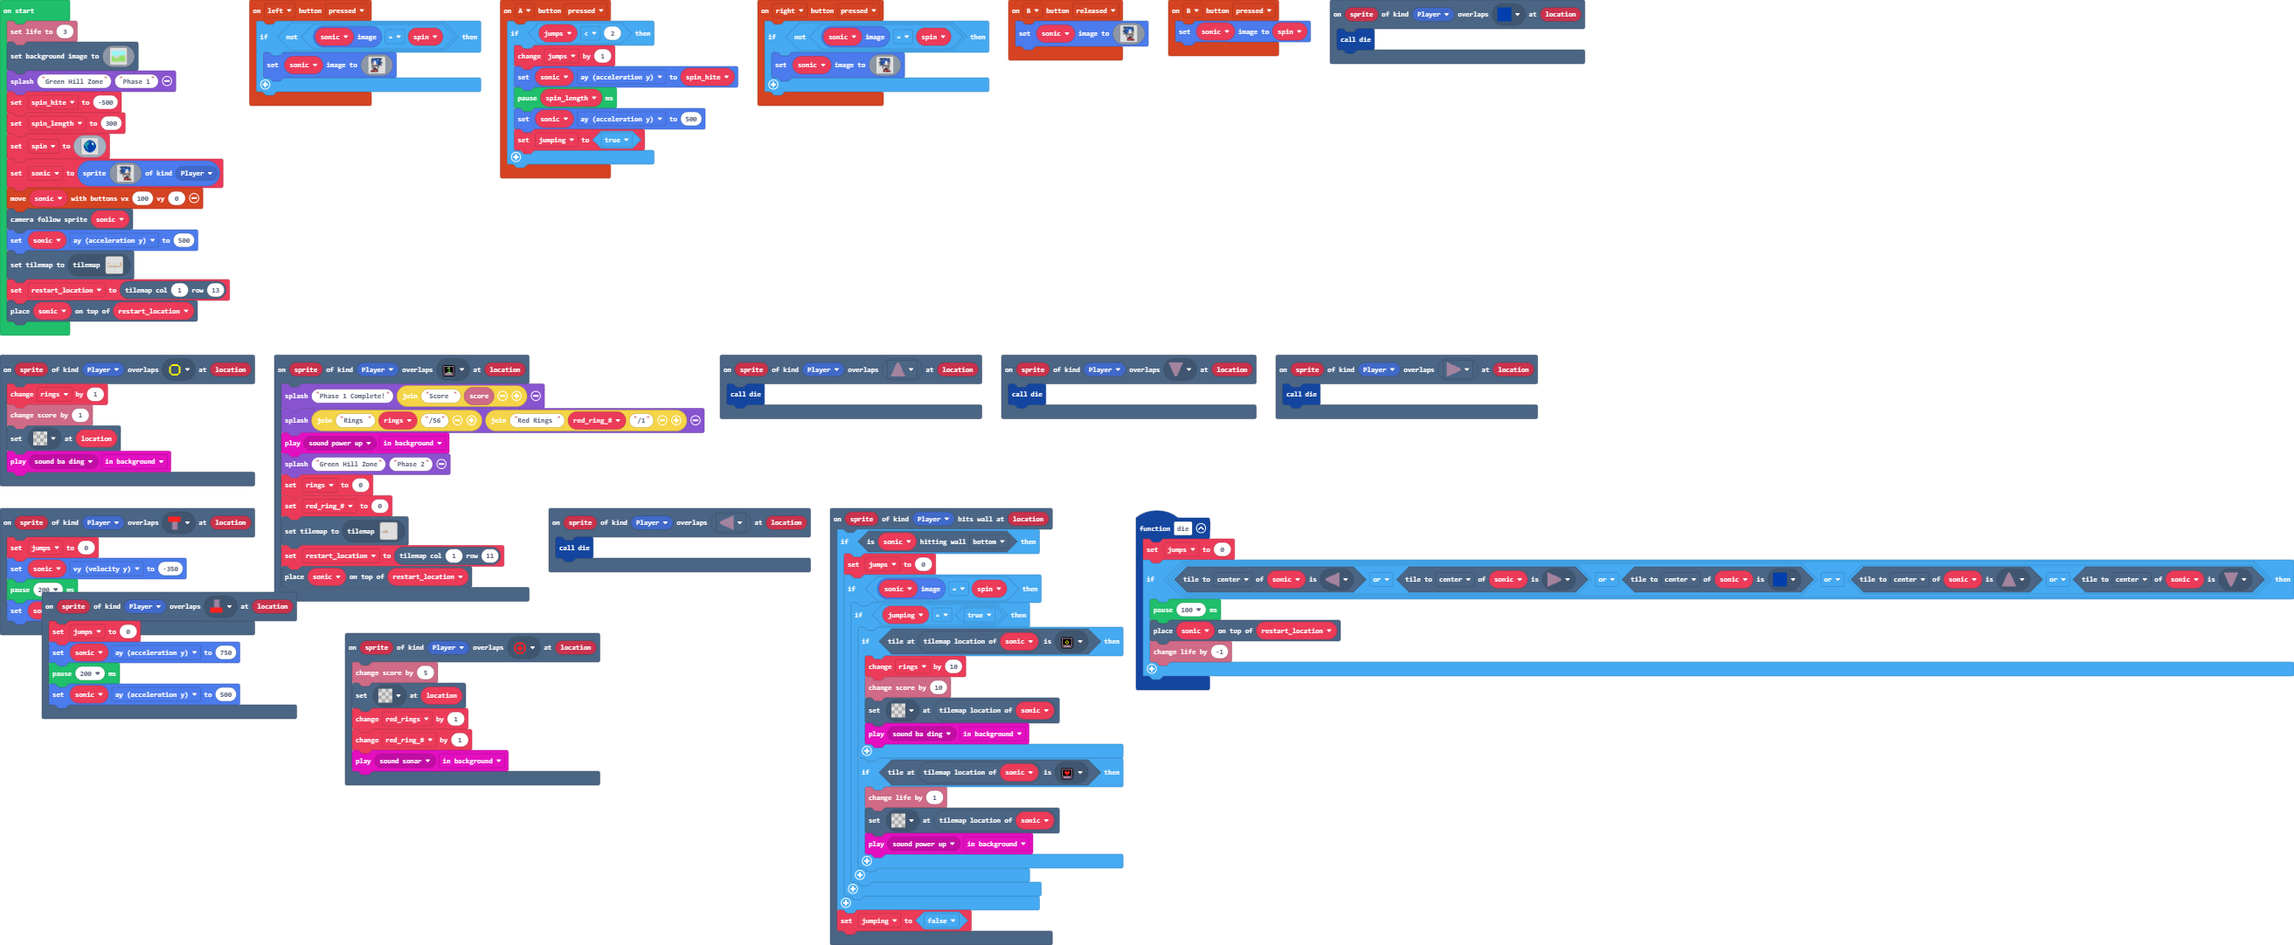
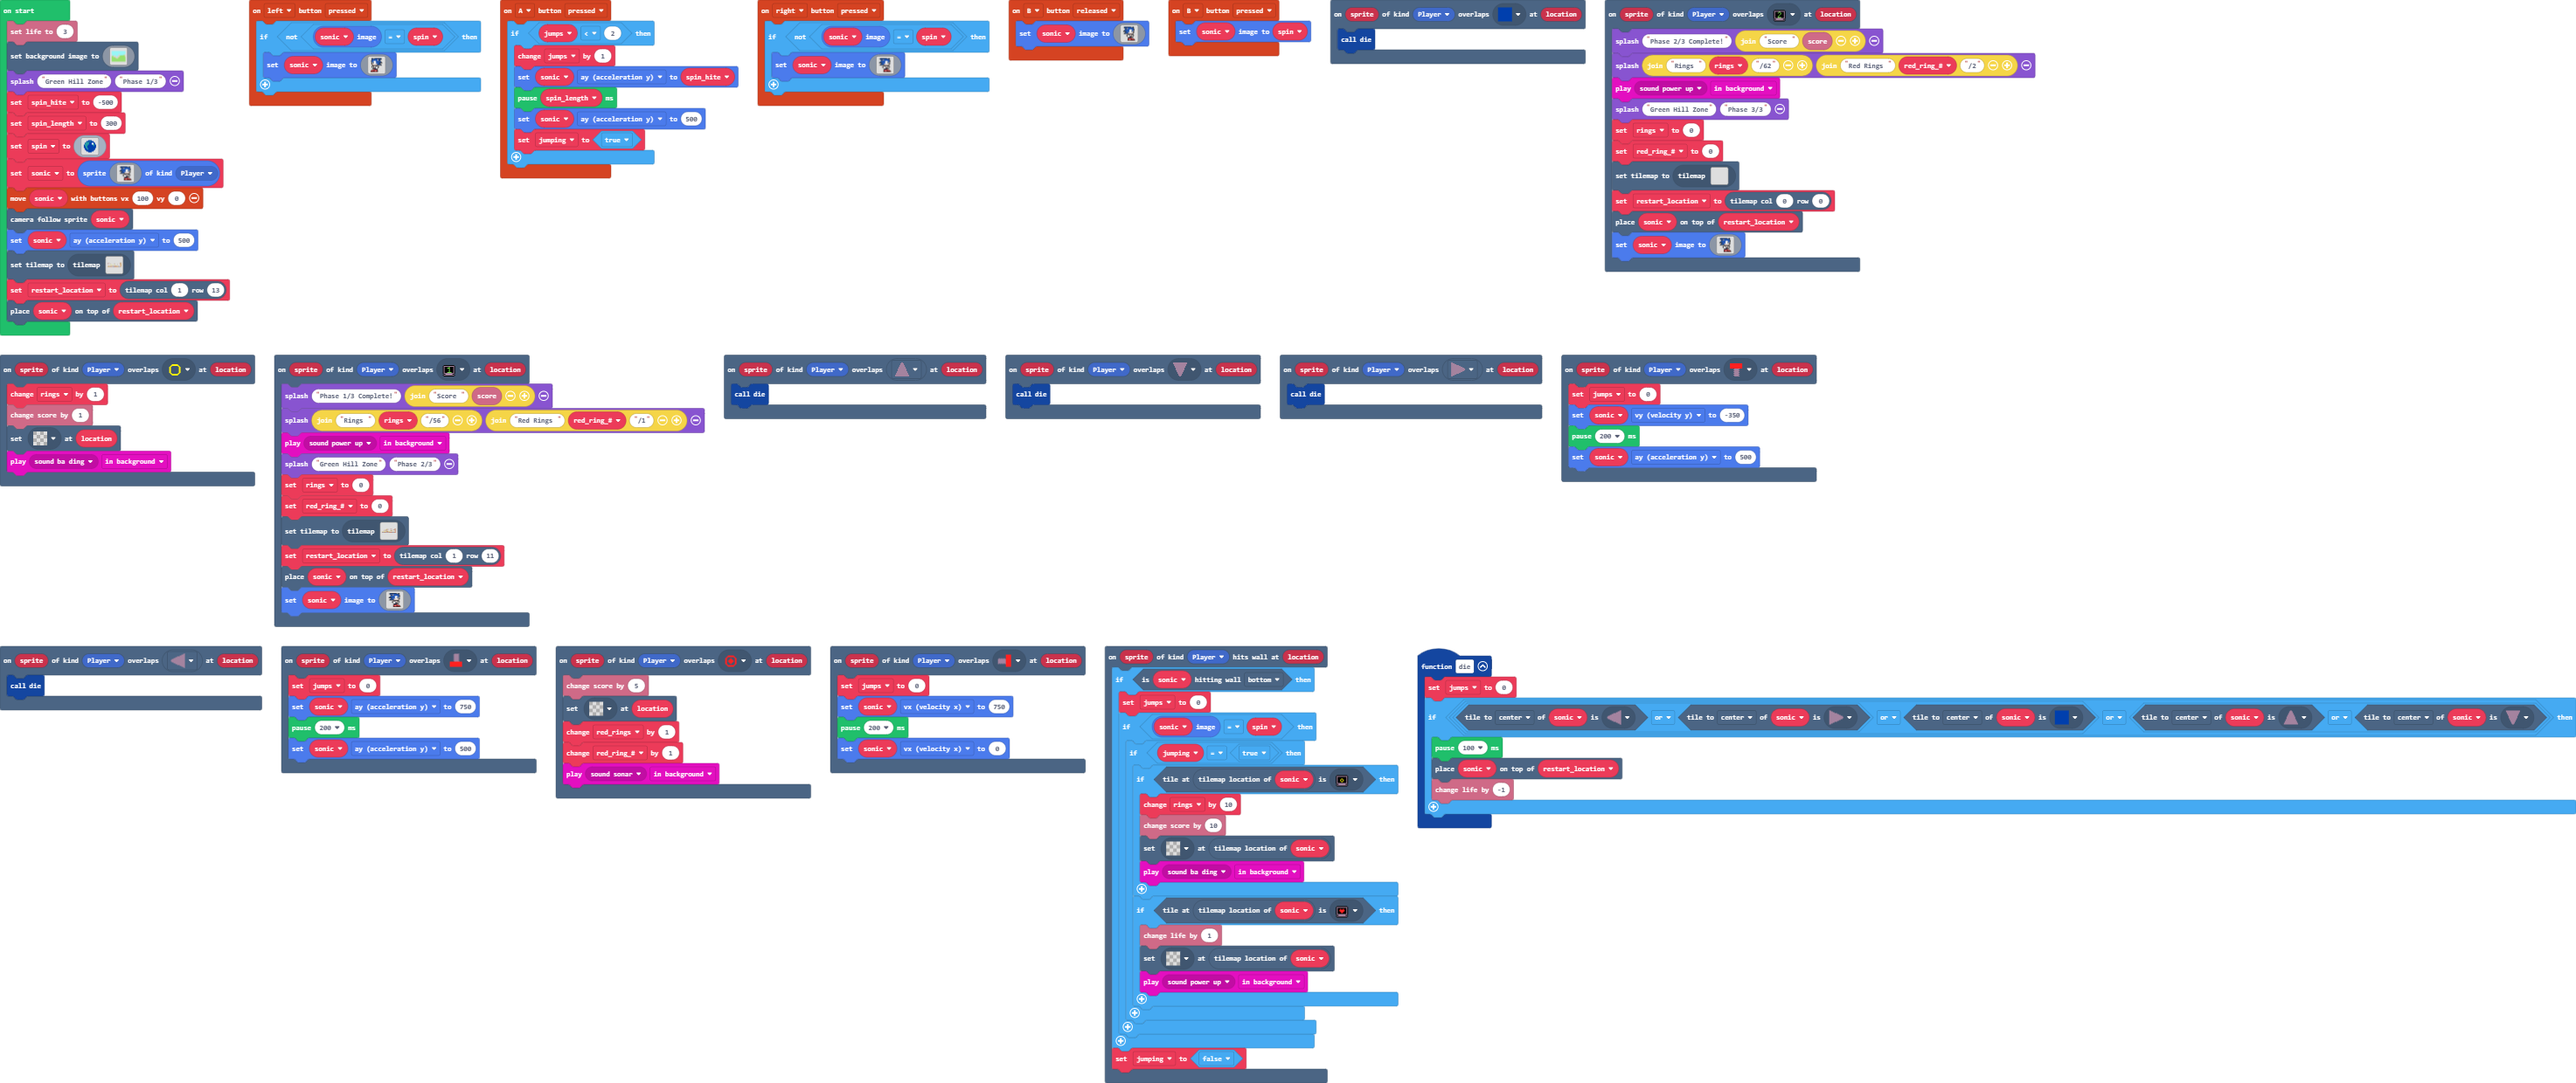
Update pxt.json, main.blocks, main.ts, tilemap.g.jres, tilemap.g.ts

diff --git a/tilemap.g.ts b/tilemap.g.ts
@@ -31,8 +31,6 @@ namespace myTiles {
     //% fixedInstance jres blockIdentity=images._tile
     export const tile16 = image.ofBuffer(hex``);
     //% fixedInstance jres blockIdentity=images._tile
-    export const tile5 = image.ofBuffer(hex``);
-    //% fixedInstance jres blockIdentity=images._tile
     export const tile17 = image.ofBuffer(hex``);
     //% fixedInstance jres blockIdentity=images._tile
     export const tile15 = image.ofBuffer(hex``);
@@ -40,6 +38,10 @@ namespace myTiles {
     export const tile18 = image.ofBuffer(hex``);
     //% fixedInstance jres blockIdentity=images._tile
     export const tile19 = image.ofBuffer(hex``);
+    //% fixedInstance jres blockIdentity=images._tile
+    export const tile5 = image.ofBuffer(hex``);
+    //% fixedInstance jres blockIdentity=images._tile
+    export const tile20 = image.ofBuffer(hex``);
 
     helpers._registerFactory("tilemap", function(name: string) {
         switch(helpers.stringTrim(name)) {
@@ -81,26 +83,7 @@ namespace myTiles {
 . . . . . . . . . . . . . . . . 
 . . . . . . . . . . . . . . . . 
 `, [myTiles.transparency16], TileScale.Sixteen);
-            case "level4":
-            case "level4":return tiles.createTilemap(hex`1000100000000000000000000000000000000000000000000000000000000000000000000000000000000000000000000000000000000000000000000000000000000000000000000000000000000000000000000000000000000000000000000000000000000000000000000000000000000000000000000000000000000000000000000000000000000000000000000000000000000000000000000000000000000000000000000000000000000000000000000000000000000000000000000000000000000000000000000000000000000000000000000000000000000000000000000000000000000000000000000000000000000000000000000000000000000000`, img`
-. . . . . . . . . . . . . . . . 
-. . . . . . . . . . . . . . . . 
-. . . . . . . . . . . . . . . . 
-. . . . . . . . . . . . . . . . 
-. . . . . . . . . . . . . . . . 
-. . . . . . . . . . . . . . . . 
-. . . . . . . . . . . . . . . . 
-. . . . . . . . . . . . . . . . 
-. . . . . . . . . . . . . . . . 
-. . . . . . . . . . . . . . . . 
-. . . . . . . . . . . . . . . . 
-. . . . . . . . . . . . . . . . 
-. . . . . . . . . . . . . . . . 
-. . . . . . . . . . . . . . . . 
-. . . . . . . . . . . . . . . . 
-. . . . . . . . . . . . . . . . 
-`, [myTiles.transparency16], TileScale.Sixteen);
-            case "level1":
+            case "Green_Hill_Zone_Phase_1":
[1 lines of base64/hex data omitted]
 .......2..............................................222222
 .......2..............................................222222
@@ -120,25 +103,63 @@ namespace myTiles {
 22222222222222222....22.2..2.22222222222222222222...222222..
 22222222222222222222222......2222222222222222222.....2222222
 `, [myTiles.transparency16,myTiles.tile1,myTiles.tile2,myTiles.tile3,myTiles.tile4,myTiles.tile5,myTiles.tile6,myTiles.tile7,myTiles.tile8,myTiles.tile9,myTiles.tile10,myTiles.tile12,myTiles.tile13,myTiles.tile14,myTiles.tile16,myTiles.tile15], TileScale.Sixteen);
-            case "level5":
[1 lines of base64/hex data omitted]
-.........................2..................................
-.........................22.................................
-.........................22.................................
-.........................22.................................
-..............22...2.....2..................................
-..................22.....2..................................
-.........22......22......2..................................
-................2........2..................................
-................2........2..................................
-....................222222..................................
-....................222222..................................
-....................222222..................................
-....................222222..................................
-222222222222..222....22222..................................
-222......2222222.....22222..................................
-222......2222222.....22222..................................
-`, [myTiles.transparency16,myTiles.tile6,myTiles.tile8,myTiles.tile9,myTiles.tile5,myTiles.tile1,myTiles.tile4,myTiles.tile10,myTiles.tile13,myTiles.tile16,myTiles.tile14,myTiles.tile19,myTiles.tile7], TileScale.Sixteen);
+            case "Green_Hill_Zone_Phase_2":
[1 lines of base64/hex data omitted]
+..........................2.........2....2............222222
+.....................2....2.........2....2............222222
+.....................2....2.........2....2............222222
+.....................2....2...........................22....
+..............22...222....2......................222..22....
+..................22..................................22222.
+.........22......22.................22222222..........22222.
+................22.......................................22.
+................2........................................22.
+....................222222...............................22.
+....................22222.2..............................22.
+....................22222..2.............................22.
+....................22222...2...............................
+222222222222..222....2222....2222222........22....22222222..
+222......2222222.....2222.....22222222222222.2....2.22222222
+222......2222222.....2222.....22222222222222........22222222
+`, [myTiles.transparency16,myTiles.tile6,myTiles.tile8,myTiles.tile9,myTiles.tile5,myTiles.tile1,myTiles.tile4,myTiles.tile10,myTiles.tile13,myTiles.tile16,myTiles.tile14,myTiles.tile7,myTiles.tile12,myTiles.tile2,myTiles.tile17], TileScale.Sixteen);
+            case "level6":
+            case "level6":return tiles.createTilemap(hex`1000100000000000000000000000000000000000000000000000000000000000000000000000000000000000000000000000000000000000000000000000000000000000000000000000000000000000000000000000000000000000000000000000000000000000000000000000000000000000000000000000000000000000000000000000000000000000000000000000000000000000000000000000000000000000000000000000000000000000000000000000000000000000000000000000000000000000000000000000000000000000000000000000000000000000000000000000000000000000000000000000000000000000000000000000000000000000`, img`
+. . . . . . . . . . . . . . . . 
+. . . . . . . . . . . . . . . . 
+. . . . . . . . . . . . . . . . 
+. . . . . . . . . . . . . . . . 
+. . . . . . . . . . . . . . . . 
+. . . . . . . . . . . . . . . . 
+. . . . . . . . . . . . . . . . 
+. . . . . . . . . . . . . . . . 
+. . . . . . . . . . . . . . . . 
+. . . . . . . . . . . . . . . . 
+. . . . . . . . . . . . . . . . 
+. . . . . . . . . . . . . . . . 
+. . . . . . . . . . . . . . . . 
+. . . . . . . . . . . . . . . . 
+. . . . . . . . . . . . . . . . 
+. . . . . . . . . . . . . . . . 
+`, [myTiles.transparency16], TileScale.Sixteen);
+            case "level4":
+            case "level4":return tiles.createTilemap(hex`1000100000000000000000000000000000000000000000000000000000000000000000000000000000000000000000000000000000000000000000000000000000000000000000000000000000000000000000000000000000000000000000000000000000000000000000000000000000000000000000000000000000000000000000000000000000000000000000000000000000000000000000000000000000000000000000000000000000000000000000000000000000000000000000000000000000000000000000000000000000000000000000000000000000000000000000000000000000000000000000000000000000000000000000000000000000000000`, img`
+. . . . . . . . . . . . . . . . 
+. . . . . . . . . . . . . . . . 
+. . . . . . . . . . . . . . . . 
+. . . . . . . . . . . . . . . . 
+. . . . . . . . . . . . . . . . 
+. . . . . . . . . . . . . . . . 
+. . . . . . . . . . . . . . . . 
+. . . . . . . . . . . . . . . . 
+. . . . . . . . . . . . . . . . 
+. . . . . . . . . . . . . . . . 
+. . . . . . . . . . . . . . . . 
+. . . . . . . . . . . . . . . . 
+. . . . . . . . . . . . . . . . 
+. . . . . . . . . . . . . . . . 
+. . . . . . . . . . . . . . . . 
+. . . . . . . . . . . . . . . . 
+`, [myTiles.transparency16], TileScale.Sixteen);
         }
         return null;
     })
@@ -174,8 +195,6 @@ namespace myTiles {
             case "tile14":return tile14;
             case "myTile14":
             case "tile16":return tile16;
-            case "myTile3":
-            case "tile5":return tile5;
             case "myTile15":
             case "tile17":return tile17;
             case "myTile13":
@@ -184,6 +203,10 @@ namespace myTiles {
             case "tile18":return tile18;
             case "myTile17":
             case "tile19":return tile19;
+            case "myTile3":
+            case "tile5":return tile5;
+            case "myTile18":
+            case "tile20":return tile20;
         }
         return null;
     })

diff --git a/main.ts b/main.ts
@@ -28,16 +28,29 @@ scene.onOverlapTile(SpriteKind.Player, assets.tile`myTile`, function (sprite, lo
     tiles.setTileAt(location, assets.tile`transparency16`)
     music.play(music.melodyPlayable(music.baDing), music.PlaybackMode.InBackground)
 })
-scene.onOverlapTile(SpriteKind.Player, assets.tile`myTile13`, function (sprite, location) {
-    game.splash("Phase 1 Complete!", "Score " + info.score())
-    game.splash("Rings " + rings + "/56", "Red Rings " + red_ring_ + "/1")
+scene.onOverlapTile(SpriteKind.Player, assets.tile`myTile15`, function (sprite, location) {
+    game.splash("Phase 2/3 Complete!", "Score " + info.score())
+    game.splash("Rings " + rings + "/62", "Red Rings " + red_ring_ + "/2")
     music.play(music.melodyPlayable(music.powerUp), music.PlaybackMode.InBackground)
-    game.splash("Green Hill Zone", "Phase 2")
+    game.splash("Green Hill Zone", "Phase 3/3")
     rings = 0
     red_ring_ = 0
-    tiles.setCurrentTilemap(tilemap`level5`)
+    tiles.setCurrentTilemap(tilemap`level4`)
+    restart_location = tiles.getTileLocation(0, 0)
+    tiles.placeOnTile(sonic, restart_location)
+    sonic.setImage(assets.image`sonicR`)
+})
+scene.onOverlapTile(SpriteKind.Player, assets.tile`myTile13`, function (sprite, location) {
+    game.splash("Phase 1/3 Complete!", "Score " + info.score())
+    game.splash("Rings " + rings + "/56", "Red Rings " + red_ring_ + "/1")
+    music.play(music.melodyPlayable(music.powerUp), music.PlaybackMode.InBackground)
+    game.splash("Green Hill Zone", "Phase 2/3")
+    rings = 0
+    red_ring_ = 0
+    tiles.setCurrentTilemap(tilemap`Green_Hill_Zone_Phase_2`)
     restart_location = tiles.getTileLocation(1, 11)
     tiles.placeOnTile(sonic, restart_location)
+    sonic.setImage(assets.image`sonicR`)
 })
 controller.A.onEvent(ControllerButtonEvent.Pressed, function () {
     if (jumps < 2) {
@@ -67,6 +80,12 @@ function die () {
         info.changeLifeBy(-1)
     }
 }
+scene.onOverlapTile(SpriteKind.Player, assets.tile`myTile18`, function (sprite, location) {
+    jumps = 0
+    sonic.vx = 750
+    pause(200)
+    sonic.vx = 0
+})
 controller.right.onEvent(ControllerButtonEvent.Pressed, function () {
     if (!(sonic.image == spin)) {
         sonic.setImage(assets.image`sonicR`)
@@ -236,7 +255,7 @@ scene.setBackgroundImage(img`
     7777777777777777777777777777777777777777777777777777777777777777777777777777777777777777777777777777777777777777777777777777777777777777777777777777777777777777
     7777777777777777777777777777777777777777777777777777777777777777777777777777777777777777777777777777777777777777777777777777777777777777777777777777777777777777
     `)
-game.splash("Green Hill Zone", "Phase 1")
+game.splash("Green Hill Zone", "Phase 1/3")
 spin_hite = -500
 spin_length = 300
 spin = assets.image`spin`
@@ -244,6 +263,6 @@ sonic = sprites.create(assets.image`sonicR`, SpriteKind.Player)
 controller.moveSprite(sonic, 100, 0)
 scene.cameraFollowSprite(sonic)
 sonic.ay = 500
-tiles.setCurrentTilemap(tilemap`level1`)
+tiles.setCurrentTilemap(tilemap`Green_Hill_Zone_Phase_1`)
 restart_location = tiles.getTileLocation(1, 13)
 tiles.placeOnTile(sonic, restart_location)
